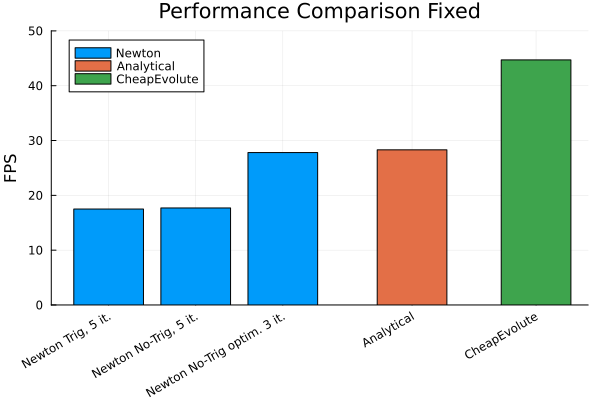
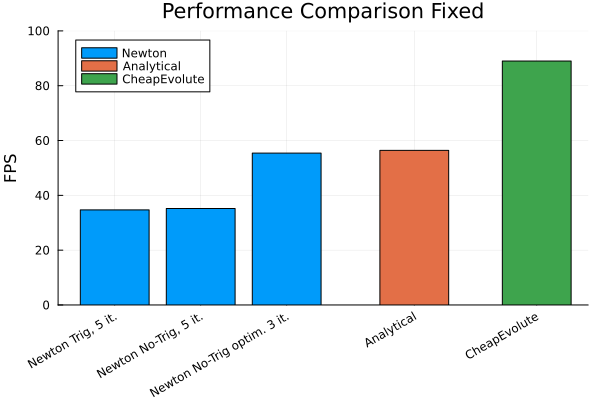
redo plots with same iteration count

diff --git a/README.md b/README.md
@@ -65,6 +65,7 @@ This method can achieve superior performance compared to existing methods thanks
 Additionally, CheapEvolute is most suitable for situations where the shape of the ellipse is fixed upfront. In that case, many parameters can be precomputed. This significantly reduces the load on the GPU, eliminating 3 of 4 divisions. 
 
 To compare performance, I gathered existing implementations into a single [shadertoy](https://www.shadertoy.com/view/3XGcDV) program and measured how using different algorithms affects FPS. I stress-tested the algorithms on an NVIDIA RTX 5070Ti at 1200x675 resolution by calling the SDF functions within a high-iteration loop. 
+With 5000 iterations, this amounts to $4.05 \cdot 10^9$ distances being calculated per frame. 
 
 
 
